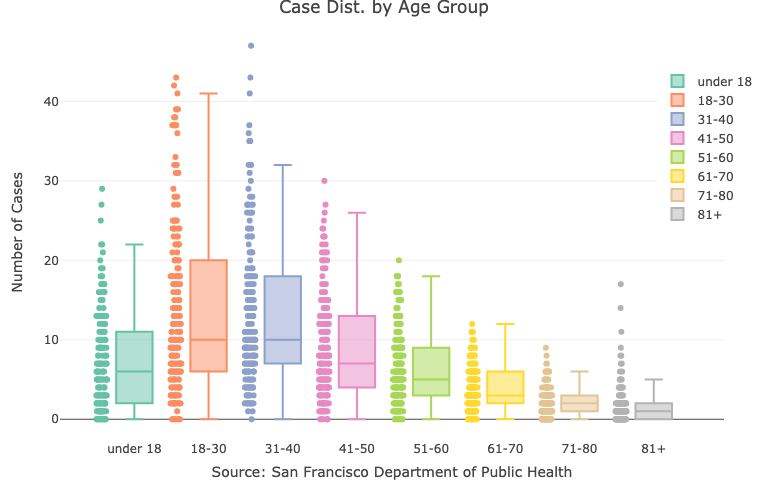
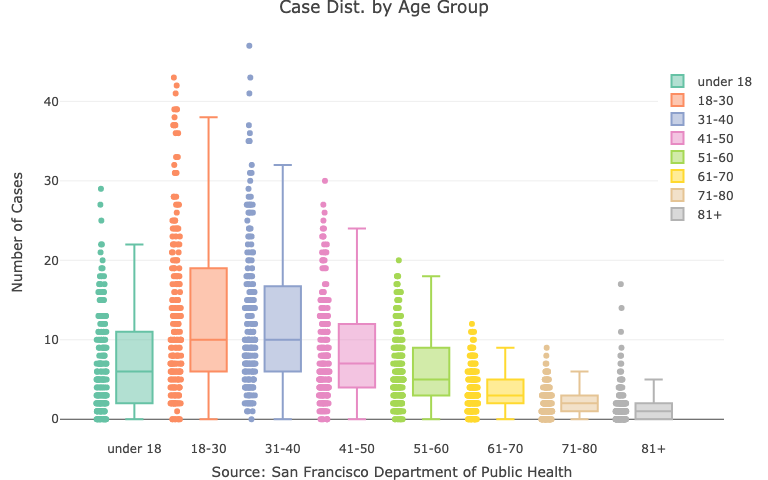
update the readme

diff --git a/README.md b/README.md
@@ -65,12 +65,12 @@ data(covid19sf_age)
 
 head(covid19sf_age)
 #>   specimen_collection_date age_group new_confirmed_cases cumulative_confirmed_cases        last_updated
-#> 1               2020-03-12     51-60                   2                          6 2020-09-25 14:21:41
-#> 2               2020-03-13     51-60                   2                          8 2020-09-25 14:21:41
-#> 3               2020-03-14     51-60                   1                          9 2020-09-25 14:21:41
-#> 4               2020-03-15     51-60                   0                          9 2020-09-25 14:21:41
-#> 5               2020-03-16     51-60                   8                         17 2020-09-25 14:21:41
-#> 6               2020-03-17     51-60                   3                         20 2020-09-25 14:21:41
+#> 1               2020-03-12     51-60                   2                          6 2020-10-16 14:15:02
+#> 2               2020-03-13     51-60                   3                          9 2020-10-16 14:15:02
+#> 3               2020-03-14     51-60                   1                         10 2020-10-16 14:15:02
+#> 4               2020-03-15     51-60                   0                         10 2020-10-16 14:15:02
+#> 5               2020-03-16     51-60                   8                         18 2020-10-16 14:15:02
+#> 6               2020-03-17     51-60                   3                         21 2020-10-16 14:15:02
 ```
 
 The following box-plot shows the distribution of the positive cases by
@@ -100,7 +100,7 @@ layout(title = "Case Dist. by Age Group",
 
 <img src="man/figures/age_dist1.png" width="100%" />
 
-Here is the overall distribution of cases by age group as of 2020-09-24:
+Here is the overall distribution of cases by age group as of 2020-10-15:
 
 ``` r
 library(dplyr)
@@ -131,12 +131,12 @@ data(covid19sf_tests)
 
 head(covid19sf_tests)
 #>   specimen_collection_date tests pos        pct neg indeterminate        last_updated
-#> 1               2020-02-28     2   0 0.00000000   2             0 2020-09-25 14:28:00
-#> 2               2020-03-01     2   0 0.00000000   2             0 2020-09-25 14:28:00
-#> 3               2020-03-02     2   0 0.00000000   2             0 2020-09-25 14:28:00
-#> 4               2020-03-03     7   2 0.28571429   5             0 2020-09-25 14:28:00
-#> 5               2020-03-04    11   0 0.00000000  11             0 2020-09-25 14:28:00
-#> 6               2020-03-05    19   6 0.31578947  13             0 2020-09-25 14:28:00
+#> 1               2020-02-28     2   0 0.00000000   2             0 2020-10-16 14:15:00
+#> 2               2020-03-01     2   0 0.00000000   2             0 2020-10-16 14:15:00
+#> 3               2020-03-02     2   0 0.00000000   2             0 2020-10-16 14:15:00
+#> 4               2020-03-03     7   2 0.28571429   5             0 2020-10-16 14:15:00
+#> 5               2020-03-04    11   0 0.00000000  11             0 2020-10-16 14:15:00
+#> 6               2020-03-05    19   6 0.31578947  13             0 2020-10-16 14:15:00
 ```
 
 The plot below shows the daily distribution of the results of the tests:
@@ -170,12 +170,12 @@ data(covid19sf_demo)
 
 head(covid19sf_demo)
 #>   specimen_collection_date race_ethnicity new_confirmed_cases cumulative_confirmed_cases        last_updated
-#> 1               2020-04-28          Asian                   5                        240 2020-09-25 14:21:41
-#> 2               2020-04-09          Asian                   6                        147 2020-09-25 14:21:41
-#> 3               2020-05-09          White                   0                        342 2020-09-25 14:21:41
-#> 4               2020-04-29          Asian                   9                        249 2020-09-25 14:21:41
-#> 5               2020-04-10          Asian                   9                        156 2020-09-25 14:21:41
-#> 6               2020-04-11          Asian                   5                        161 2020-09-25 14:21:41
+#> 1               2020-04-20          Asian                   4                        208 2020-10-16 14:15:02
+#> 2               2020-04-21          Asian                   5                        213 2020-10-16 14:15:02
+#> 3               2020-06-04          Asian                   5                        361 2020-10-16 14:15:02
+#> 4               2020-06-05          Asian                   2                        363 2020-10-16 14:15:02
+#> 5               2020-06-06          Asian                   1                        364 2020-10-16 14:15:02
+#> 6               2020-06-07          Asian                   0                        364 2020-10-16 14:15:02
 ```
 
 Below is a plot of the cumulative positive cases by race and ethnicity:
